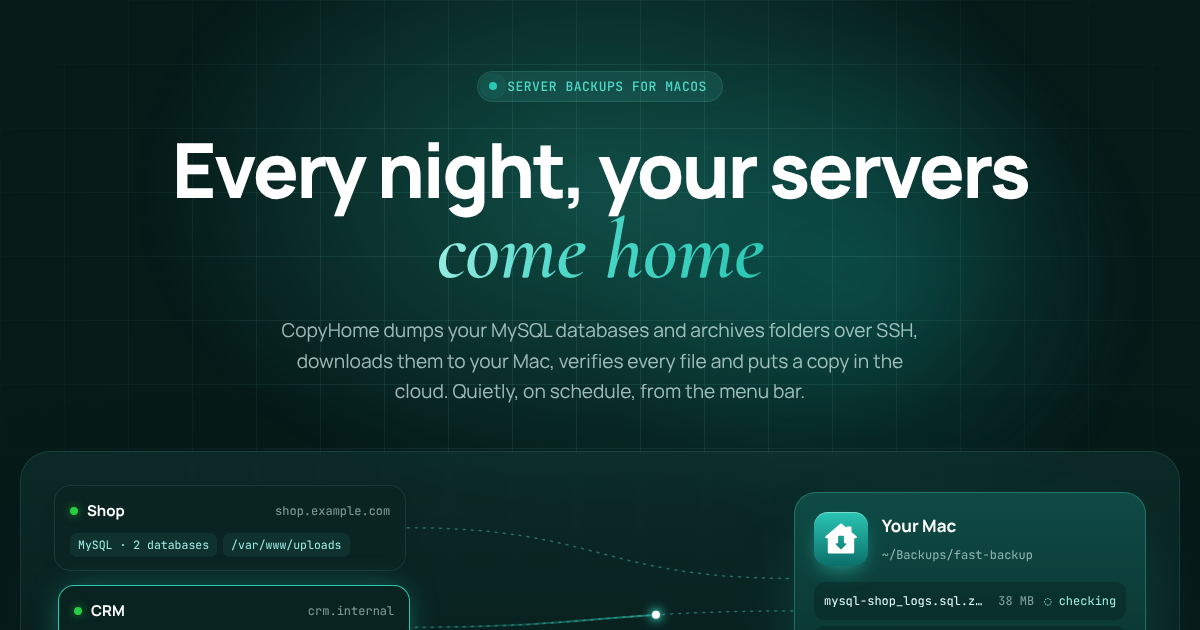
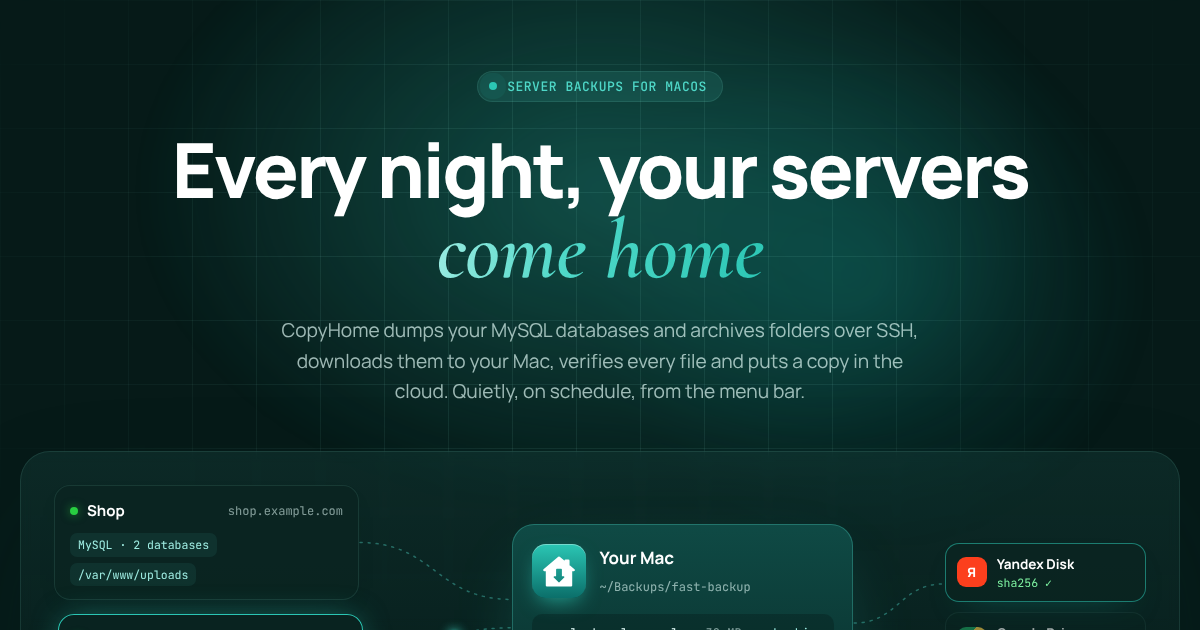
Hero diagram: show the cloud copy step (Mac → Yandex Disk, Google Drive and S3/WebDAV planned)

diff --git a/main.js b/main.js
@@ -118,7 +118,10 @@
   const home = flow.querySelector('.flow-home');
   const homeIcon = flow.querySelector('.home-icon');
   const list = document.getElementById('home-files');
+  const clouds = [...flow.querySelectorAll('.cl')];
+  const cloudStat = flow.querySelector('.cl.live .cl-stat');
   let paths = [];
+  let cloudPath = '';
 
   function layout() {
     const box = flow.getBoundingClientRect();
@@ -152,6 +155,28 @@
       lines.querySelectorAll('.ln').forEach((p, i) => { if (i < paths.length - 1) p.remove(); });
       paths = paths.map(() => last);
     }
+    // Mac → cloud storages: the live one gets the animated line, planned ones a faint one.
+    const below = clouds[0].getBoundingClientRect().top > h.bottom;
+    clouds.forEach((c, i) => {
+      const r = c.getBoundingClientRect();
+      let d;
+      if (below) {
+        const x1 = h.left + h.width * (0.3 + 0.2 * i) - box.left, y1 = h.bottom - box.top;
+        const x2 = r.left + r.width / 2 - box.left, y2 = r.top - box.top;
+        const my = (y1 + y2) / 2;
+        d = `M${x1},${y1} C${x1},${my} ${x2},${my} ${x2},${y2}`;
+      } else {
+        const x1 = h.right - box.left, y1 = h.top + h.height * (0.42 + 0.1 * i) - box.top;
+        const x2 = r.left - box.left, y2 = r.top + r.height / 2 - box.top;
+        const mx = (x1 + x2) / 2;
+        d = `M${x1},${y1} C${mx},${y1} ${mx},${y2} ${x2},${y2}`;
+      }
+      const p = document.createElementNS(SVG, 'path');
+      p.setAttribute('d', d);
+      p.setAttribute('class', c.classList.contains('live') ? 'ln' : 'ln soon');
+      lines.append(p);
+      if (c.classList.contains('live')) cloudPath = d;
+    });
   }
 
   function arrive(name, size) {
@@ -165,23 +190,36 @@
     while (list.children.length > 3) list.lastElementChild.remove();
     homeIcon.classList.add('got');
     setTimeout(() => homeIcon.classList.remove('got'), 350);
-    setTimeout(() => { li.classList.remove('checking'); li.lastElementChild.textContent = T.verified; }, 900);
+    setTimeout(() => {
+      li.classList.remove('checking');
+      li.lastElementChild.textContent = T.verified;
+      upload(name);
+    }, 900);
   }
 
-  function send(i) {
-    const s = servers[i];
-    const files = JSON.parse(s.dataset.files);
-    const [name, size] = files[Math.floor(Math.random() * files.length)];
-    s.classList.add('sending');
+  // A verified file continues from the Mac to the cloud; the storage card shows it, then the checksum.
+  function upload(name) {
+    if (!cloudPath) return;
+    const live = clouds.find((c) => c.classList.contains('live'));
+    fly(cloudPath, 1100, () => {
+      live.classList.add('got');
+      cloudStat.classList.add('busy');
+      cloudStat.textContent = `↑ ${name}`;
+      setTimeout(() => live.classList.remove('got'), 400);
+      setTimeout(() => { cloudStat.classList.remove('busy'); cloudStat.textContent = 'sha256 ✓'; }, 1000);
+    });
+  }
+
+  // Moves a glowing dot along a path, then calls done.
+  function fly(d, dur, done) {
     const dot = document.createElementNS(SVG, 'circle');
     dot.setAttribute('r', '4');
     dot.setAttribute('class', 'packet');
     const trail = document.createElementNS(SVG, 'path');
-    trail.setAttribute('d', paths[i]);
+    trail.setAttribute('d', d);
     trail.setAttribute('class', 'ln-glow');
     lines.append(trail, dot);
     const len = trail.getTotalLength();
-    const dur = 1500;
     const t0 = performance.now();
     const step = (t) => {
       const k = Math.min((t - t0) / dur, 1);
@@ -192,9 +230,17 @@
       trail.style.opacity = String(Math.sin(k * Math.PI) * 0.9);
       trail.style.strokeDasharray = `${e * len} ${len}`;
       if (k < 1) requestAnimationFrame(step);
-      else { dot.remove(); trail.remove(); s.classList.remove('sending'); arrive(name, size); }
+      else { dot.remove(); trail.remove(); done(); }
     };
     requestAnimationFrame(step);
+  }
+
+  function send(i) {
+    const s = servers[i];
+    const files = JSON.parse(s.dataset.files);
+    const [name, size] = files[Math.floor(Math.random() * files.length)];
+    s.classList.add('sending');
+    fly(paths[i], 1500, () => { s.classList.remove('sending'); arrive(name, size); });
   }
 
   layout();

diff --git a/styles.css b/styles.css
@@ -302,7 +302,7 @@ p { margin: 0; }
 /* flow visual */
 .flow {
   position: relative; margin-top: 72px;
-  display: grid; grid-template-columns: minmax(0, 1fr) minmax(0, 1.1fr) minmax(0, 1fr); align-items: center;
+  display: grid; grid-template-columns: minmax(0, 1fr) minmax(40px, .5fr) minmax(0, 1.12fr) minmax(36px, .3fr) minmax(0, .66fr); align-items: center;
   padding: 34px; border-radius: 30px;
   background: var(--flow-bg);
   box-shadow: 0 0 0 1px var(--line) inset, 0 40px 120px -50px rgba(5, 40, 36, .55);
@@ -361,8 +361,27 @@ p { margin: 0; }
 .home-files li.checking .f-ok { color: var(--teal-200); }
 .home-files li.checking .f-ok::before { content: '◌ '; }
 @keyframes fileIn { from { opacity: 0; transform: translateY(-8px) scale(.98); background: rgba(79,216,200,.25); } }
-.home-cloud { margin-top: 14px; display: flex; align-items: center; gap: 8px; font-size: 13px; color: rgba(230,255,251,.65); }
-.cloud-dot { width: 7px; height: 7px; border-radius: 50%; background: #FFCC00; box-shadow: 0 0 8px #FFCC00; }
+.home-files { margin-bottom: 0; }
+
+/* clouds: where the Mac sends its copy next */
+.flow-clouds { grid-column: 5; position: relative; z-index: 1; display: grid; gap: 10px; }
+.clouds-label { font: 600 11px/1 var(--mono); text-transform: uppercase; letter-spacing: .08em; color: var(--text-3); margin: 0 0 2px 2px; }
+.cl {
+  display: flex; align-items: center; gap: 10px; min-width: 0;
+  padding: 11px 12px; border-radius: 14px;
+  background: var(--srv-bg); box-shadow: 0 0 0 1px var(--line) inset, 0 10px 30px -22px rgba(5,40,36,.5);
+  transition: box-shadow .4s, transform .4s var(--ease);
+}
+.cl > div { min-width: 0; }
+.cl b { display: block; font-size: 13.5px; color: var(--heading); white-space: nowrap; overflow: hidden; text-overflow: ellipsis; }
+.cl span:not(.p-logo) { display: block; font: 11.5px/1.4 var(--mono); color: var(--text-3); white-space: nowrap; overflow: hidden; text-overflow: ellipsis; }
+.cl .p-logo { width: 30px; height: 30px; border-radius: 9px; font-size: 13px; }
+.cl:not(.live) { opacity: .6; }
+.cl.live { box-shadow: 0 0 0 1px rgba(43,198,180,.55) inset, 0 14px 34px -22px rgba(14,140,130,.7); }
+.cl.live .cl-stat { color: var(--ok-text); }
+.cl.live .cl-stat.busy { color: var(--accent-text); }
+.cl.got { transform: translateX(-3px); box-shadow: 0 0 0 1px var(--teal-400) inset, 0 0 30px -6px rgba(43,198,180,.55); }
+.flow-lines .ln.soon { stroke-dasharray: 2 7; opacity: .45; animation: none; }
 .packet { fill: #fff; filter: drop-shadow(0 0 6px var(--teal-300)) drop-shadow(0 0 2px var(--teal-400)); }
 
 /* ---------- strip ---------- */
@@ -620,9 +639,11 @@ details p { padding: 0 0 22px; color: var(--text-2); font-size: 16px; }
 @media (max-width: 1080px) {
   .nav-links { display: none; }
   .nav-tools { margin-left: auto; }
-  .flow { grid-template-columns: 1fr 1fr; gap: 90px 0; padding: 22px; }
+  .flow { grid-template-columns: 1fr; gap: 90px 0; padding: 22px; }
   .flow-servers { grid-column: 1 / -1; grid-template-columns: repeat(3, minmax(0,1fr)); }
   .flow-home { grid-column: 1 / -1; max-width: 460px; width: 100%; margin: 0 auto; }
+  .flow-clouds { grid-column: 1 / -1; grid-template-columns: repeat(3, minmax(0, 1fr)); max-width: 620px; width: 100%; margin: 0 auto; }
+  .clouds-label { display: none; }
   .strip-inner { grid-template-columns: repeat(2, 1fr); }
   .mac { grid-template-columns: 1fr; }
   .mac-side { display: none; }
@@ -642,6 +663,10 @@ details p { padding: 0 0 22px; color: var(--text-2); font-size: 16px; }
   .flow { margin-top: 56px; gap: 70px 0; padding: 14px; border-radius: 22px; }
   .flow-servers { grid-template-columns: 1fr; gap: 10px; }
   .srv-tags { display: none; }
+  .flow-clouds { gap: 8px; }
+  .cl { flex-direction: column; text-align: center; gap: 6px; padding: 10px 6px; }
+  .cl b { font-size: 12px; }
+  .cl span:not(.p-logo) { font-size: 10.5px; }
   .srv { padding: 12px 14px; }
   .strip { padding-bottom: 60px; }
   .strip-inner { grid-template-columns: 1fr 1fr; }

diff --git a/index.html b/index.html
@@ -83,7 +83,7 @@
   </div>
 
   <div class="wrap">
-    <div class="flow reveal" id="flow" role="img" aria-label="Три сервера отправляют бекапы на Mac, каждый файл проходит проверку">
+    <div class="flow reveal" id="flow" role="img" aria-label="Три сервера отправляют бекапы на Mac, каждый файл проходит проверку, а копия уходит в Яндекс Диск">
       <svg class="flow-lines" id="flow-lines" aria-hidden="true"></svg>
       <div class="flow-servers">
         <div class="srv" data-files='[["mysql-shop.sql.zst","412 МБ"],["mysql-shop_logs.sql.zst","38 МБ"],["dir-var-www-shop-uploads.tar.gz","1,1 ГБ"]]'>
@@ -112,7 +112,12 @@
           <li><span class="f-name">dir-srv-crm-storage.tar.gz</span><span class="f-size">240 МБ</span><span class="f-ok">проверен</span></li>
           <li><span class="f-name">mysql-blog.sql.gz</span><span class="f-size">21 МБ</span><span class="f-ok">проверен</span></li>
         </ul>
-        <div class="home-cloud"><span class="cloud-dot"></span> Копия уходит в Яндекс Диск</div>
+      </div>
+      <div class="flow-clouds">
+        <p class="clouds-label">Копия в облаке</p>
+        <div class="cl live"><span class="p-logo ya">Я</span><div><b>Яндекс Диск</b><span class="cl-stat">sha256 ✓</span></div></div>
+        <div class="cl"><span class="p-logo gd">G</span><div><b>Google Drive</b><span>скоро</span></div></div>
+        <div class="cl"><span class="p-logo s3">S3</span><div><b>S3 и WebDAV</b><span>в планах</span></div></div>
       </div>
     </div>
   </div>

diff --git a/en/index.html b/en/index.html
@@ -83,7 +83,7 @@
   </div>
 
   <div class="wrap">
-    <div class="flow reveal" id="flow" role="img" aria-label="Three servers send backups to a Mac, and every file gets verified">
+    <div class="flow reveal" id="flow" role="img" aria-label="Three servers send backups to a Mac, every file gets verified, and a copy goes on to Yandex Disk">
       <svg class="flow-lines" id="flow-lines" aria-hidden="true"></svg>
       <div class="flow-servers">
         <div class="srv" data-files='[["mysql-shop.sql.zst","412 MB"],["mysql-shop_logs.sql.zst","38 MB"],["dir-var-www-shop-uploads.tar.gz","1.1 GB"]]'>
@@ -112,7 +112,12 @@
           <li><span class="f-name">dir-srv-crm-storage.tar.gz</span><span class="f-size">240 MB</span><span class="f-ok">verified</span></li>
           <li><span class="f-name">mysql-blog.sql.gz</span><span class="f-size">21 MB</span><span class="f-ok">verified</span></li>
         </ul>
-        <div class="home-cloud"><span class="cloud-dot"></span> A copy goes to Yandex Disk</div>
+      </div>
+      <div class="flow-clouds">
+        <p class="clouds-label">Cloud copy</p>
+        <div class="cl live"><span class="p-logo ya">Я</span><div><b>Yandex Disk</b><span class="cl-stat">sha256 ✓</span></div></div>
+        <div class="cl"><span class="p-logo gd">G</span><div><b>Google Drive</b><span>soon</span></div></div>
+        <div class="cl"><span class="p-logo s3">S3</span><div><b>S3 and WebDAV</b><span>planned</span></div></div>
       </div>
     </div>
   </div>
